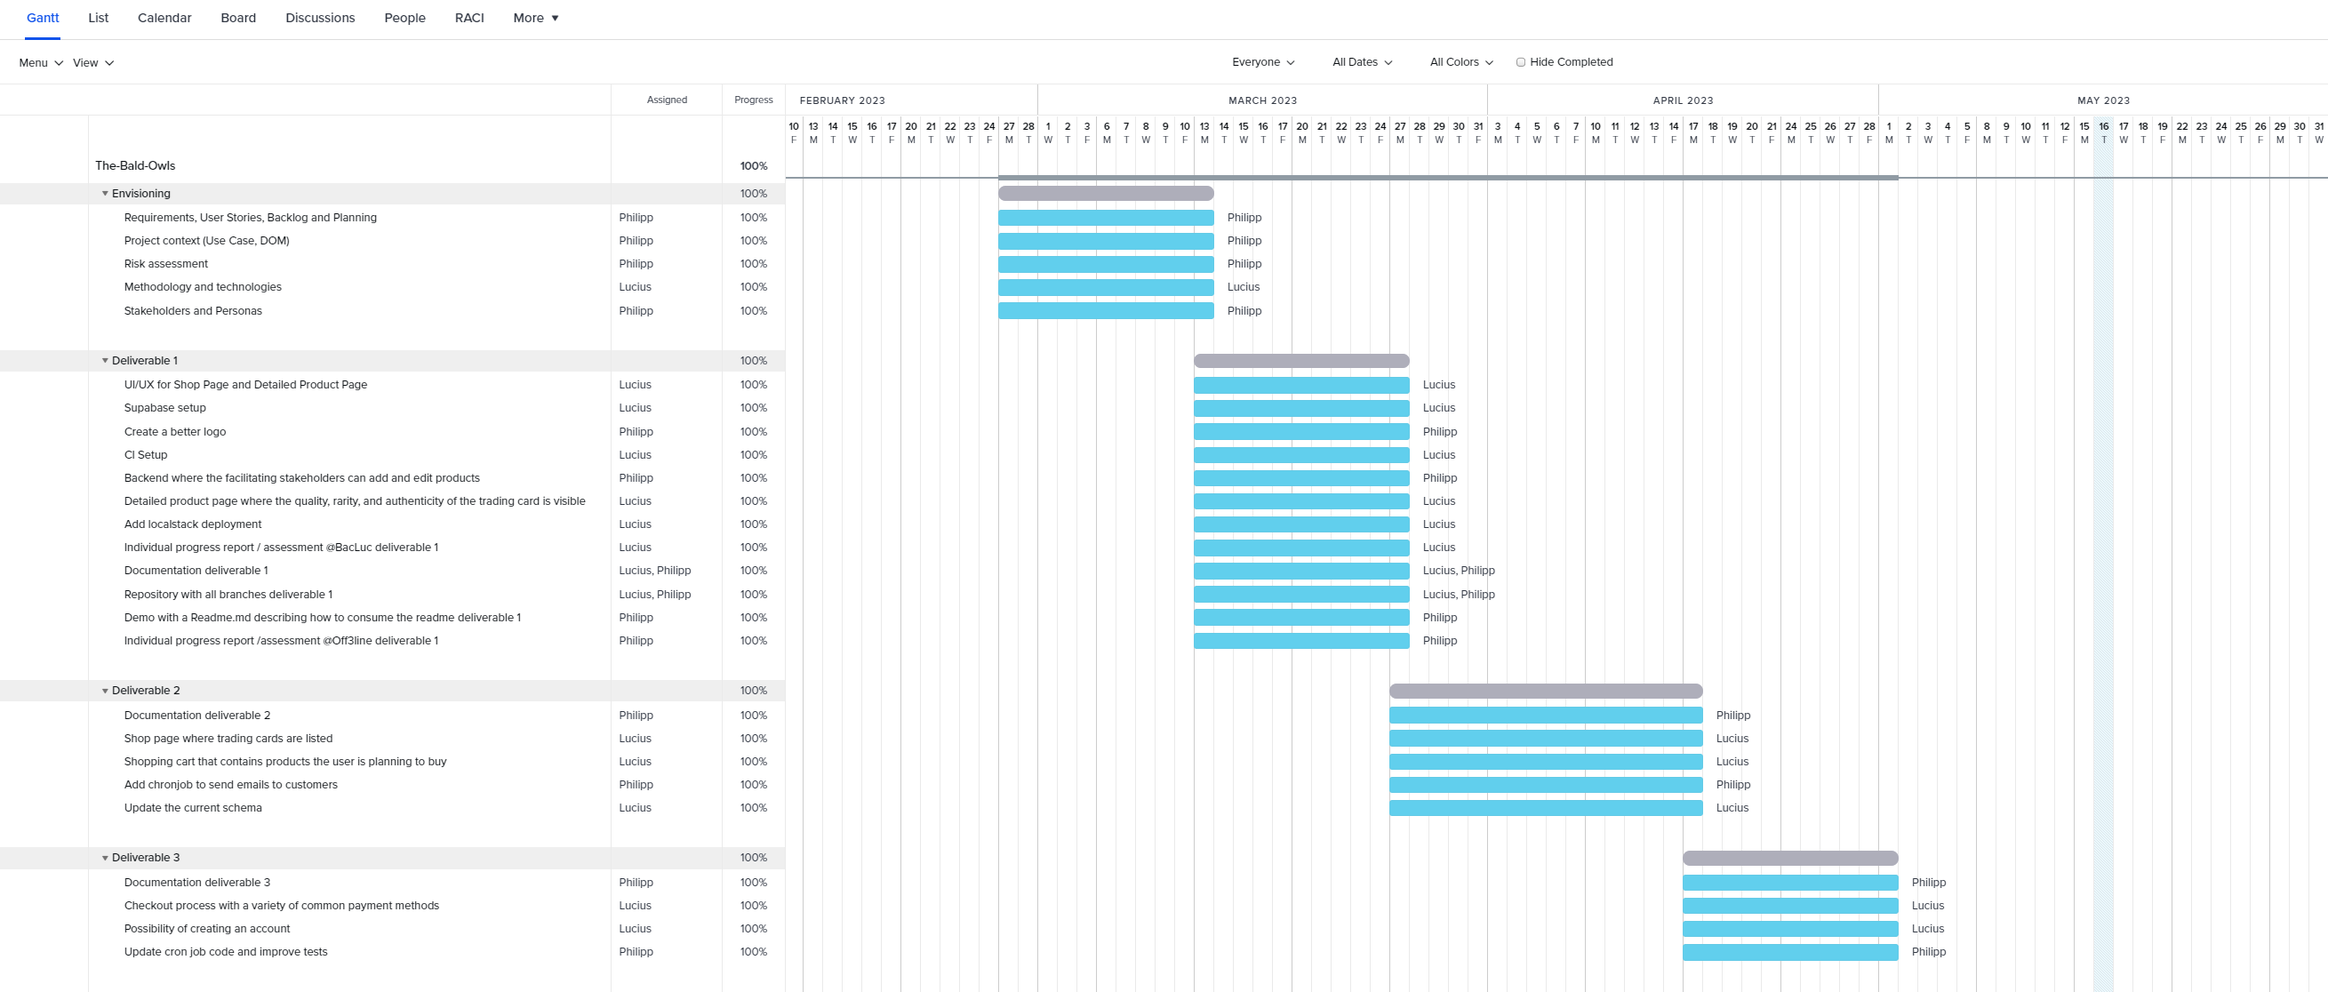
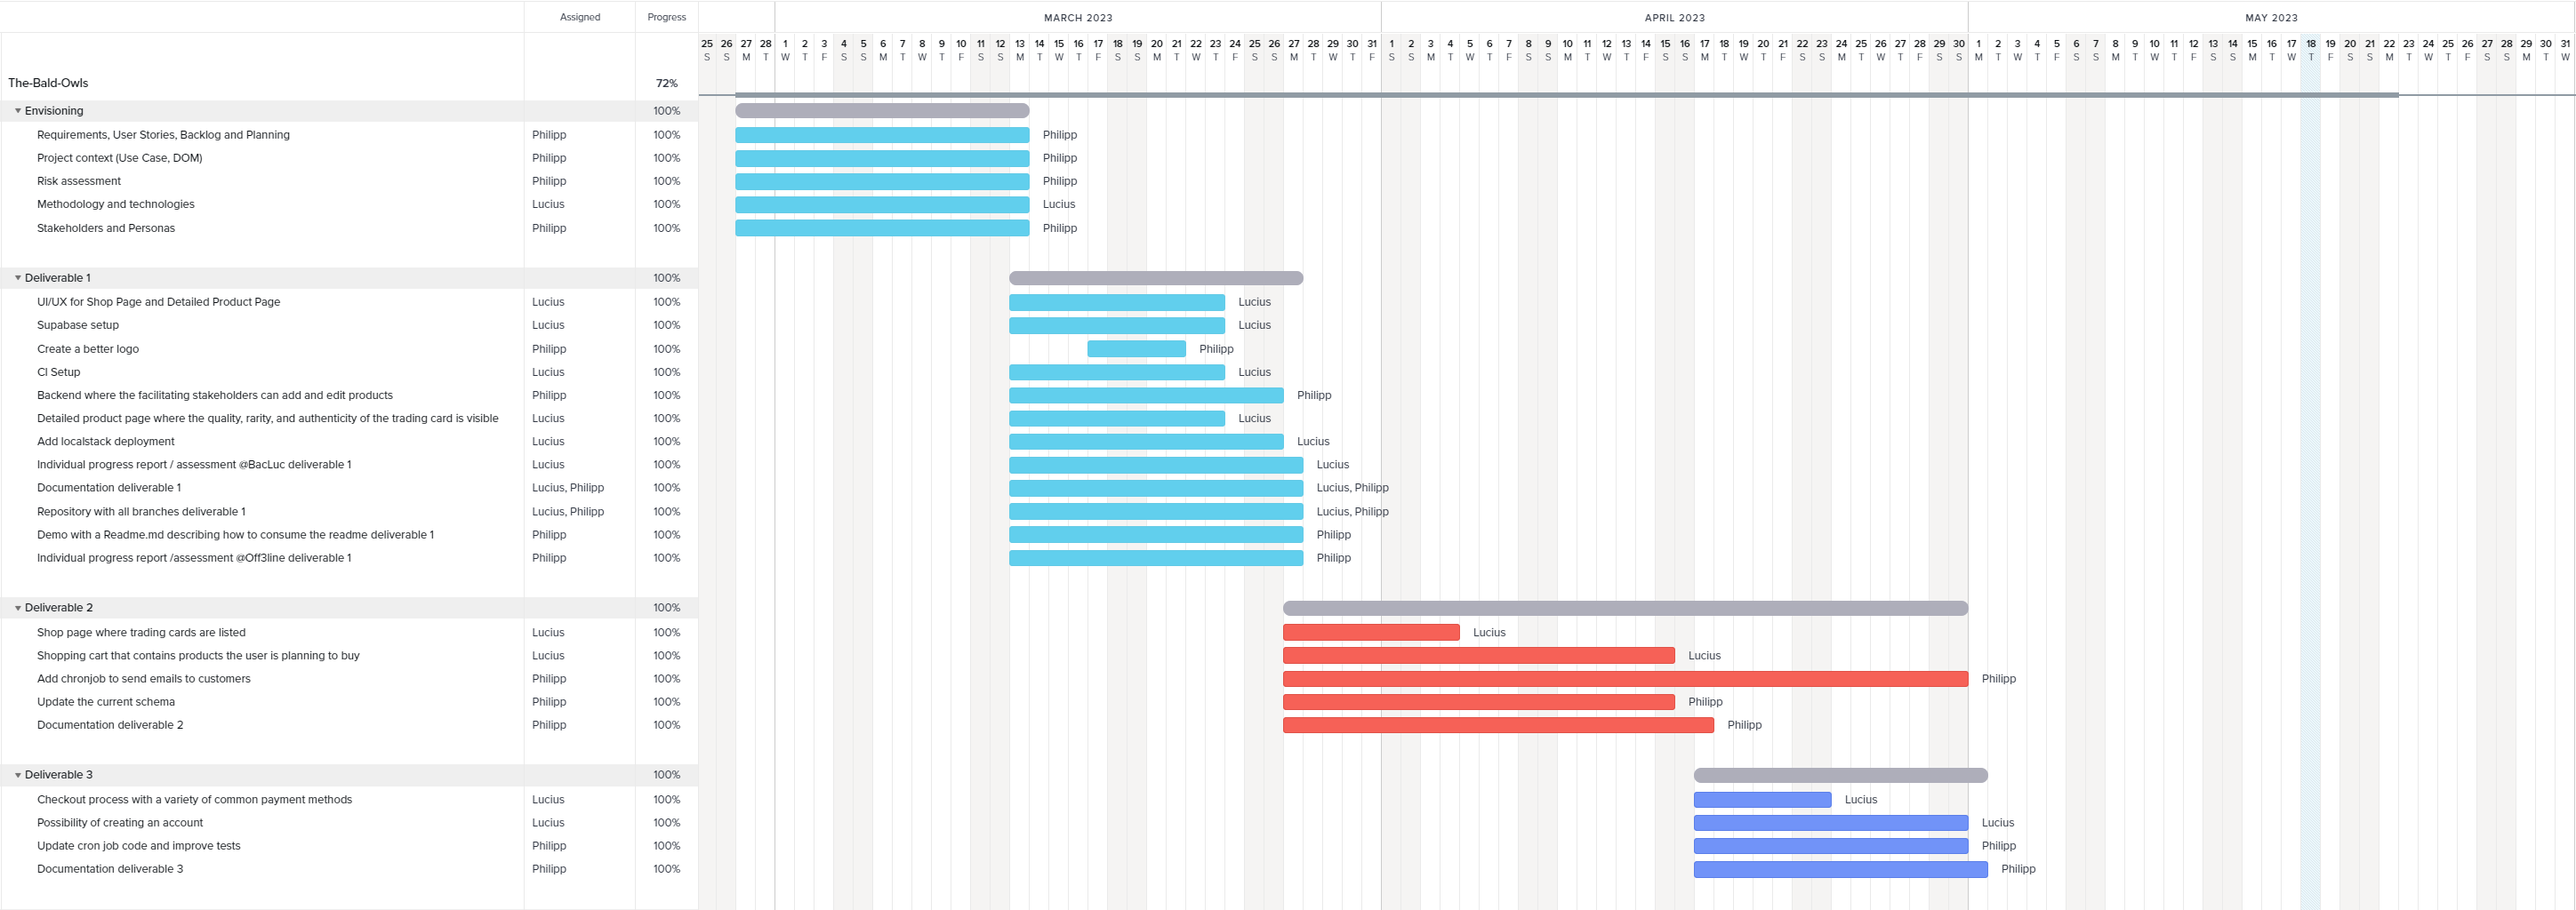
link fream readme.md file established. closing date added to gannt chart. updates text and description in Organization.md

diff --git a/ORGANIZATION.md b/ORGANIZATION.md
@@ -1,0 +1,33 @@
+# Project Organisation
+This documentation gives an overview of the methodologies used as well as what, how, who, and when the group solved issued tasks. 
+
+
+## Scrum / Kanban
+Since our group was relatively small, communication and task/issue tracking was kept fairly straightforward. 
+We used weekly meetings to discuss and plan current issues and tasks that need to be solved within the deliverable timeline. This decision served as a foundation as we also met online during the week to further discuss some ongoing issues or questions which arose during the development. We believed it was the right amount of fixed communication for this group size and to let the rest be discussed rather spontaneously. 
+
+Our entire project table can be found [here.](https://github.com/orgs/ase-23-the-bald-owls/projects/1) In general, for each deliverable timeframe, we had a kanban board, consisting of issue and feature tasks. These were structured in the columns 'Todo' , 'In Progress' ,  'In Review', and 'Done'. This is a common practice to structure the progress more clearly and to see what the group members were working on.
+At the beginning of a deliverable time frame, the group discussed which ticket or issue they were going to focus on and then started working. If a ticket was done before the end of the deliverable phase, commonly another ticket was started. The deliverables themselves served as milestones during the project life cycle. Similarly here, the group's main reasoning was to keep the communication and administration overhead as minimal as possible to focus on delivering or fixing issues in the software.
+
+Initially, the tasks were derived from the requirements analysis and Stakeholders and Personas the group created. Then, the tasks were categorized into 'should', 'could', 'must', or 'won't'. The focus was set on deploying first all core functionalities of the web shop, the 'must' tickets to the production. If there was enough time, the should or could tickets would then be targeted next, depending on the overall pace of the group. Furthermore, a ticket size in the form of a 'T-Shirt size' was estimated to evaluate roughly how much workload a ticket had to better plan and execute the deliverables.
+
+
+To visualize the history better, a Gantt chart depicts what tasks were done in which timeline:
+![GanttChart_1](/docs/components/GanttChart_TBO_1.png "Gantt Chart 1")
+![GanttChart_2](/docs/components/GanttChart_TBO_2.png "Gantt Chart 2")
+
+
+## Versioning
+As for the versioning of our repository, the group created feature and bug branches based on the current main branch. Merges into the main branch were only possible when the following criteria have been met:
+
+- CI reports successful build
+- CD reports successful build
+- Dev setup reports successful build
+- SonarQube reports no issues
+
+When all of the mentioned boxes are checked, the feature or bug branch was then merged through a **Pull Request** into the main branch. The general reasoning for this was to prevent any low quality code or generally untested code in production. No tags or similar features were used as the group was small enough to keep good track of the code versioning.
+A visual representation of our entire git graph can be found [here](/docs/components/):
+
+## Pull Requests
+If one branch was ready to be merged, a mandatory Pull Request was necessary because the main branch was blocked initially to avoid any unfinished changes in the main branch. Also, if one of the two group members created the Pull Request, the other author had to approve it before merging. Smaller issues were directly commented on or improved with the suggestion feature from GitHub. Otherwise, a comment was made to rewrite the specific parts of the code before making an approval. 
+Also, whenever possible, we merged and rebased our main branch in order to provide a cleaner history. All of the project **Pull Requests** can be found [here](https://github.com/ase-23-the-bald-owls/swiss-card-exchange/pulls?q=is%3Apr+is%3Aclosed)

diff --git a/README.md b/README.md
@@ -4,6 +4,9 @@ This is a student project developed by @BacLuc and @Off3line.
 The goal of the courses project is to create a cloud native e-commerce application.  
 [Course page of Advanced Software Engineering @UZH](https://www.ifi.uzh.ch/en/seal/teaching/courses/ase.html)
 
+# Project Documentation
+   A markdown file with the documentation about the organization can be found [here](/ORGANIZATION.md)
+
 ## Github Badges:
 
 [![CI](https://github.com/ase-23-the-bald-owls/swiss-card-exchange/actions/workflows/ci.yml/badge.svg)](https://github.com/ase-23-the-bald-owls/swiss-card-exchange/actions/workflows/ci.yml)
